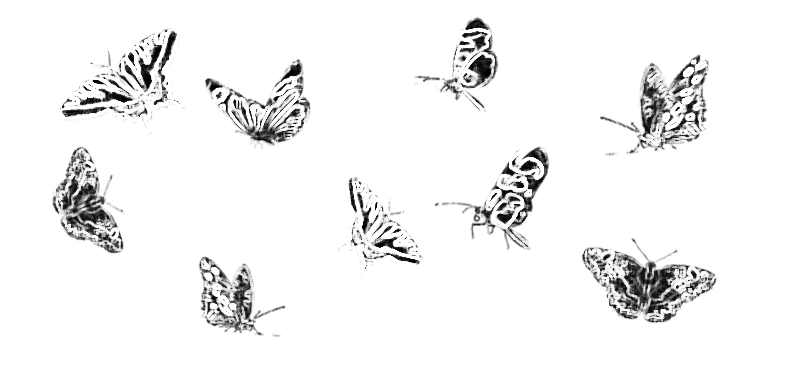
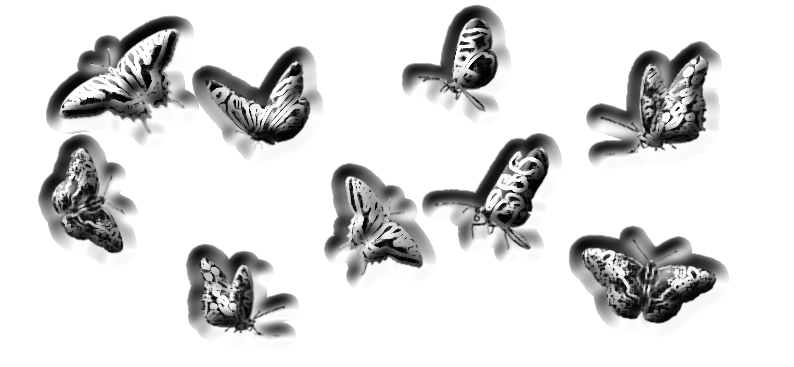
hihihihi

diff --git a/textes/thisgirl.html b/textes/thisgirl.html
@@ -84,7 +84,10 @@
                     ressent de manière profonde</br>
                     se ressent</br></br>
 
-                    à rechercher une proximité physique, intellectuelle ou même imaginaire</br>
+                    à rechercher une proximité physique, 
+                    intellectuelle 
+                    ou même imaginaire</br>
+                    
                     j’ai envie de dire,</br>
                     la reconnaissance</br></br>
 

diff --git a/doncQuoi.html b/doncQuoi.html
@@ -81,7 +81,7 @@
 
         <!-- <iframe src="https://player.vimeo.com/video/814375478?h=a7a8cdb152" width="640" height="564" frameborder="0" allow="autoplay; fullscreen" allowfullscreen></iframe>-->
     
-
+        <img src="images/papillons.png" id="img3x3">
         <img src="images/paysag.jpg" id="img4x3">
         <img src="images/girl3.jpg" id="img3x4">
         <img src="images/girl2.jpg" id="img3x4">
